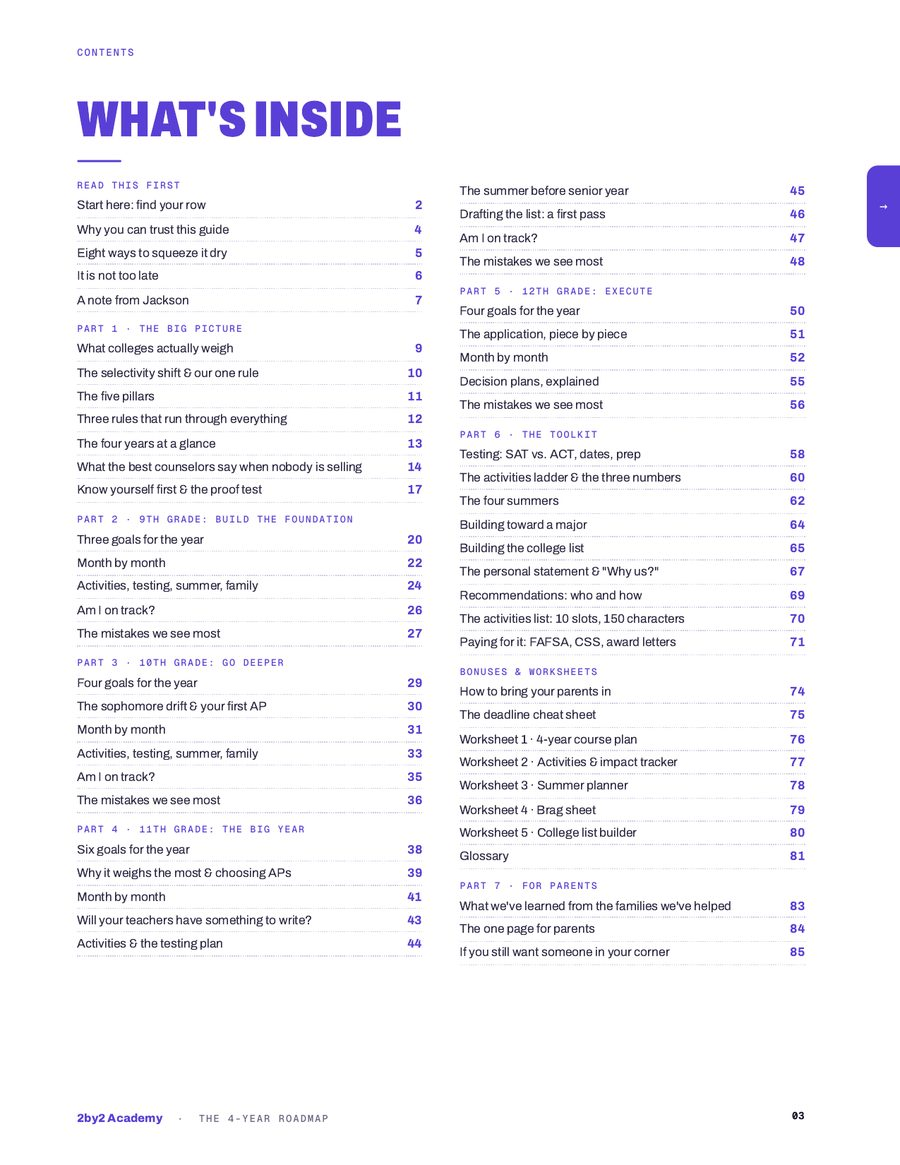
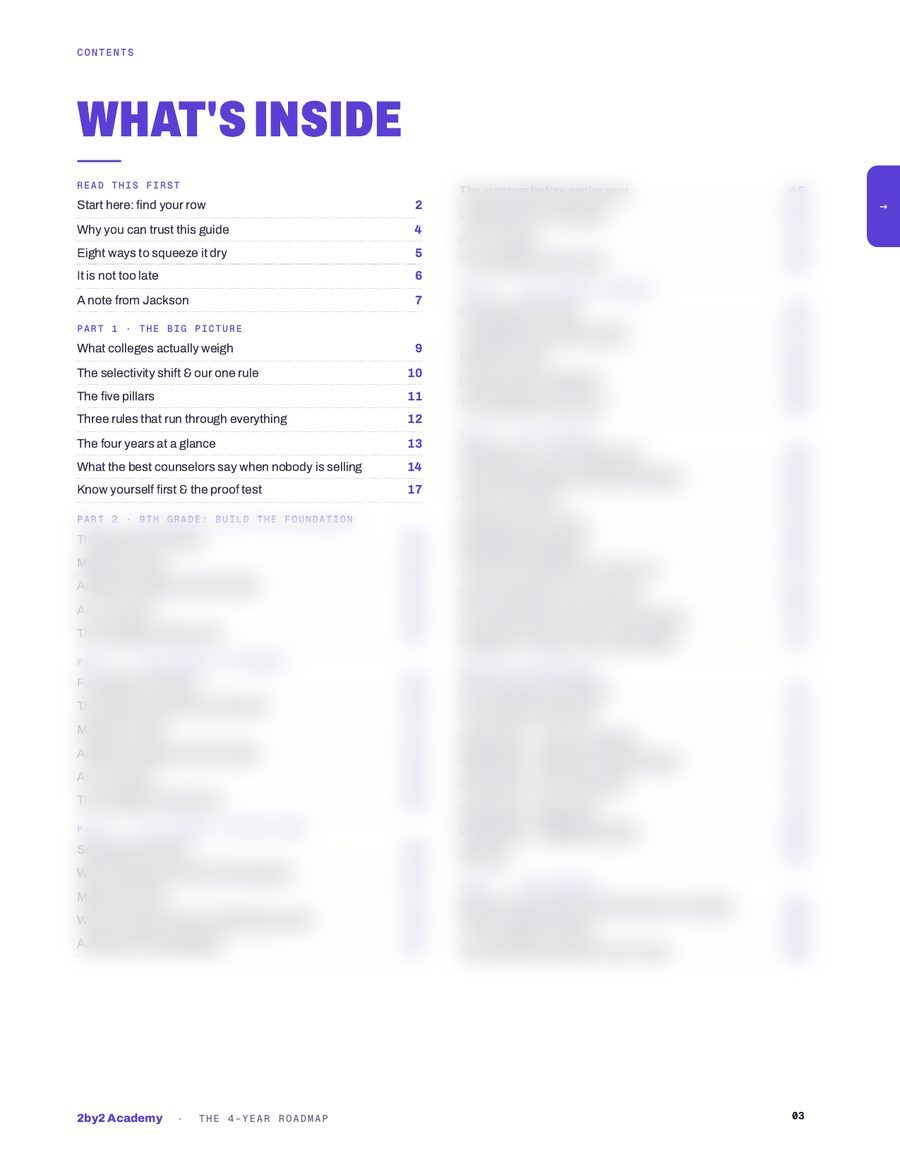
Roadmap preview: drop Stripe/flip-through lines, blur page previews past the teaser so the method stays in the PDF
Claude-Session: https://claude.ai/code/session_01Tx4XZy6AFCUnLjaCkcYsYS

diff --git a/roadmap/index.html b/roadmap/index.html
@@ -7,7 +7,7 @@
 <script src="../track.js"></script>
 <meta name="viewport" content="width=device-width, initial-scale=1, viewport-fit=cover">
 <title>The 4-Year Roadmap – See inside | 2by2 Academy</title>
-<meta name="description" content="Flip through the 4-Year Roadmap: a grade-by-grade plan from 9th to 12th, with monthly to-dos, on-track checks and fill-in worksheets. $19.99, instant PDF.">
+<meta name="description" content="A look inside the 4-Year Roadmap: a grade-by-grade plan from 9th to 12th, with monthly to-dos, on-track checks and fill-in worksheets. $19.99, instant PDF.">
 <meta property="og:title" content="The 4-Year Roadmap – See inside">
 <meta property="og:description" content="Every grade, 9th to 12th: what to do each month, each summer, and before every deadline.">
 <meta property="og:image" content="https://2by2academy.co/roadmap/img/cover.jpg">
@@ -156,7 +156,7 @@ p,h1,h2,h3,figure{margin:0}
     <div class="hero">
       <span class="kick">The 4&#8209;Year Roadmap</span>
       <h1>See what&rsquo;s <em>inside.</em></h1>
-      <p>Every grade from 9th to 12th: what to do each month, each summer, and before every deadline. Flip through it before you buy.</p>
+      <p>Every grade from 9th to 12th: what to do each month, each summer, and before every deadline.</p>
     </div>
   </div>
 </header>
@@ -173,7 +173,6 @@ p,h1,h2,h3,figure{margin:0}
         </ul>
         <div class="price"><b>$19.99</b><span>Instant PDF, sent to your email.</span></div>
         <a class="btn" href="#" data-buy id="buyTop">Get the Roadmap <span aria-hidden="true">&rsaquo;</span></a>
-        <p class="fine">Secure checkout with Stripe.</p>
       </div>
     </div>
   </section>
@@ -181,15 +180,15 @@ p,h1,h2,h3,figure{margin:0}
   <section class="sec" aria-labelledby="pgTitle">
     <div class="wrap">
       <span class="sec-k rv">Real pages</span>
-      <h2 class="sec-h rv" id="pgTitle">Flip <em>through it.</em></h2>
-      <p class="sec-lede rv">Tap any page to read it up close.</p>
+      <h2 class="sec-h rv" id="pgTitle">A peek <em>inside.</em></h2>
+      <p class="sec-lede rv">A few real pages. The rest is in the PDF.</p>
     </div>
     <div class="pages" id="pages">
-        <figure class="pg"><button type="button" data-full="img/contents.jpg" aria-label="Enlarge: What&rsquo;s inside"><img src="img/contents.jpg?v=1" width="900" height="1165" alt="Roadmap page preview: What&rsquo;s inside" loading="lazy"></button><figcaption><b>What&rsquo;s inside</b>The full contents: seven parts, 86 pages, every grade.</figcaption></figure>
-        <figure class="pg"><button type="button" data-full="img/month-by-month.jpg" aria-label="Enlarge: Month by month"><img src="img/month-by-month.jpg?v=1" width="900" height="1165" alt="Roadmap page preview: Month by month" loading="lazy"></button><figcaption><b>Month by month</b>Your exact to&#8209;dos for each month, so you always know what&rsquo;s next.</figcaption></figure>
-        <figure class="pg"><button type="button" data-full="img/on-track.jpg" aria-label="Enlarge: Am I on track?"><img src="img/on-track.jpg?v=1" width="900" height="1165" alt="Roadmap page preview: Am I on track?" loading="lazy"></button><figcaption><b>Am I on track?</b>A checkpoint at the end of every year. Count your checks, see where you stand.</figcaption></figure>
-        <figure class="pg"><button type="button" data-full="img/note.jpg" aria-label="Enlarge: A note from Jackson"><img src="img/note.jpg?v=1" width="900" height="1165" alt="Roadmap page preview: A note from Jackson" loading="lazy"></button><figcaption><b>A note from Jackson</b>Why this exists, and the things nobody told us in 9th grade.</figcaption></figure>
-        <figure class="pg"><button type="button" data-full="img/worksheet.jpg" aria-label="Enlarge: Fill-in worksheets"><img src="img/worksheet.jpg?v=1" width="900" height="1165" alt="Roadmap page preview: Fill-in worksheets" loading="lazy"></button><figcaption><b>Fill-in worksheets</b>Five worksheets: course plan, activities, summers, brag sheet, college list.</figcaption></figure>
+        <figure class="pg"><button type="button" data-full="img/contents.jpg" aria-label="Enlarge: What&rsquo;s inside"><img src="img/contents.jpg?v=2" width="900" height="1165" alt="Roadmap page preview: What&rsquo;s inside" loading="lazy"><span class="lock" style="bottom:30%">Parts 2&ndash;7 in the PDF</span></button><figcaption><b>What&rsquo;s inside</b>Seven parts, 86 pages, every grade. Here&rsquo;s where it starts.</figcaption></figure>
+        <figure class="pg"><button type="button" data-full="img/month-by-month.jpg" aria-label="Enlarge: Month by month"><img src="img/month-by-month.jpg?v=2" width="900" height="1165" alt="Roadmap page preview: Month by month" loading="lazy"><span class="lock" style="bottom:34%">Every month, all 4 years</span></button><figcaption><b>Month by month</b>What to do this month, every month, 9th through 12th. No more guessing what&rsquo;s next.</figcaption></figure>
+        <figure class="pg"><button type="button" data-full="img/on-track.jpg" aria-label="Enlarge: Am I on track?"><img src="img/on-track.jpg?v=2" width="900" height="1165" alt="Roadmap page preview: Am I on track?" loading="lazy"><span class="lock" style="bottom:30%">Your score unlocks inside</span></button><figcaption><b>Am I on track?</b>A 10&#8209;point check at the end of every year. Your score tells you exactly what to do next.</figcaption></figure>
+        <figure class="pg"><button type="button" data-full="img/note.jpg" aria-label="Enlarge: A note from Jackson"><img src="img/note.jpg?v=2" width="900" height="1165" alt="Roadmap page preview: A note from Jackson" loading="lazy"></button><figcaption><b>A note from Jackson</b>Why this exists, and the things nobody told us in 9th grade.</figcaption></figure>
+        <figure class="pg"><button type="button" data-full="img/worksheet.jpg" aria-label="Enlarge: Fill-in worksheets"><img src="img/worksheet.jpg?v=2" width="900" height="1165" alt="Roadmap page preview: Fill-in worksheets" loading="lazy"><span class="lock" style="bottom:40%">5 worksheets in the PDF</span></button><figcaption><b>Fill-in worksheets</b>Course plan, activities, summers, brag sheet, college list. By 12th grade, this one becomes your Common App activities list.</figcaption></figure>
         <figure class="pg"><button type="button" data-full="img/cheat-sheet.jpg" aria-label="Enlarge: The deadline cheat sheet"><img src="img/cheat-sheet.jpg?v=1" width="900" height="1165" alt="Roadmap page preview: The deadline cheat sheet" loading="lazy"><span class="lock">Unlocks in the full PDF</span></button><figcaption><b>The deadline cheat sheet</b>Every 2026&ndash;27 date on one page. Unlocks with the full Roadmap.</figcaption></figure>
     </div>
     <p class="swipe" aria-hidden="true">Swipe <i>&rarr;</i></p>
@@ -238,7 +237,7 @@ p,h1,h2,h3,figure{margin:0}
       <div class="card rv">
         <div class="price"><b>$19.99</b><span>Instant PDF.</span></div>
         <a class="btn" href="#" data-buy>Get the Roadmap <span aria-hidden="true">&rsaquo;</span></a>
-        <p class="fine">Secure checkout with Stripe. Sent to your email right after.</p>
+        <p class="fine">Sent to your email right after.</p>
       </div>
       <p class="alt">Want a person beside you instead? <a href="../matchmaking/">Book a free matchmaking call</a></p>
     </div>
@@ -282,7 +281,7 @@ var ROADMAP_URL = 'https://buy.stripe.com/fZu9AMfhBbvU1HH5ni2ZO00'; // Stripe Pa
   var lb=document.getElementById('lb'), lbImg=document.getElementById('lbImg'), seen={};
   document.querySelectorAll('[data-full]').forEach(function(b){
     b.addEventListener('click',function(){
-      lbImg.src=b.getAttribute('data-full')+'?v=1'; lbImg.alt=b.querySelector('img').alt;
+      lbImg.src=b.getAttribute('data-full')+'?v=2'; lbImg.alt=b.querySelector('img').alt;
       lb.classList.add('open'); lb.scrollTop=0; document.body.style.overflow='hidden';
       var k=b.getAttribute('data-full'); if(!seen[k]){ seen[k]=1; track('PreviewPage',{page:k}); }
     });
